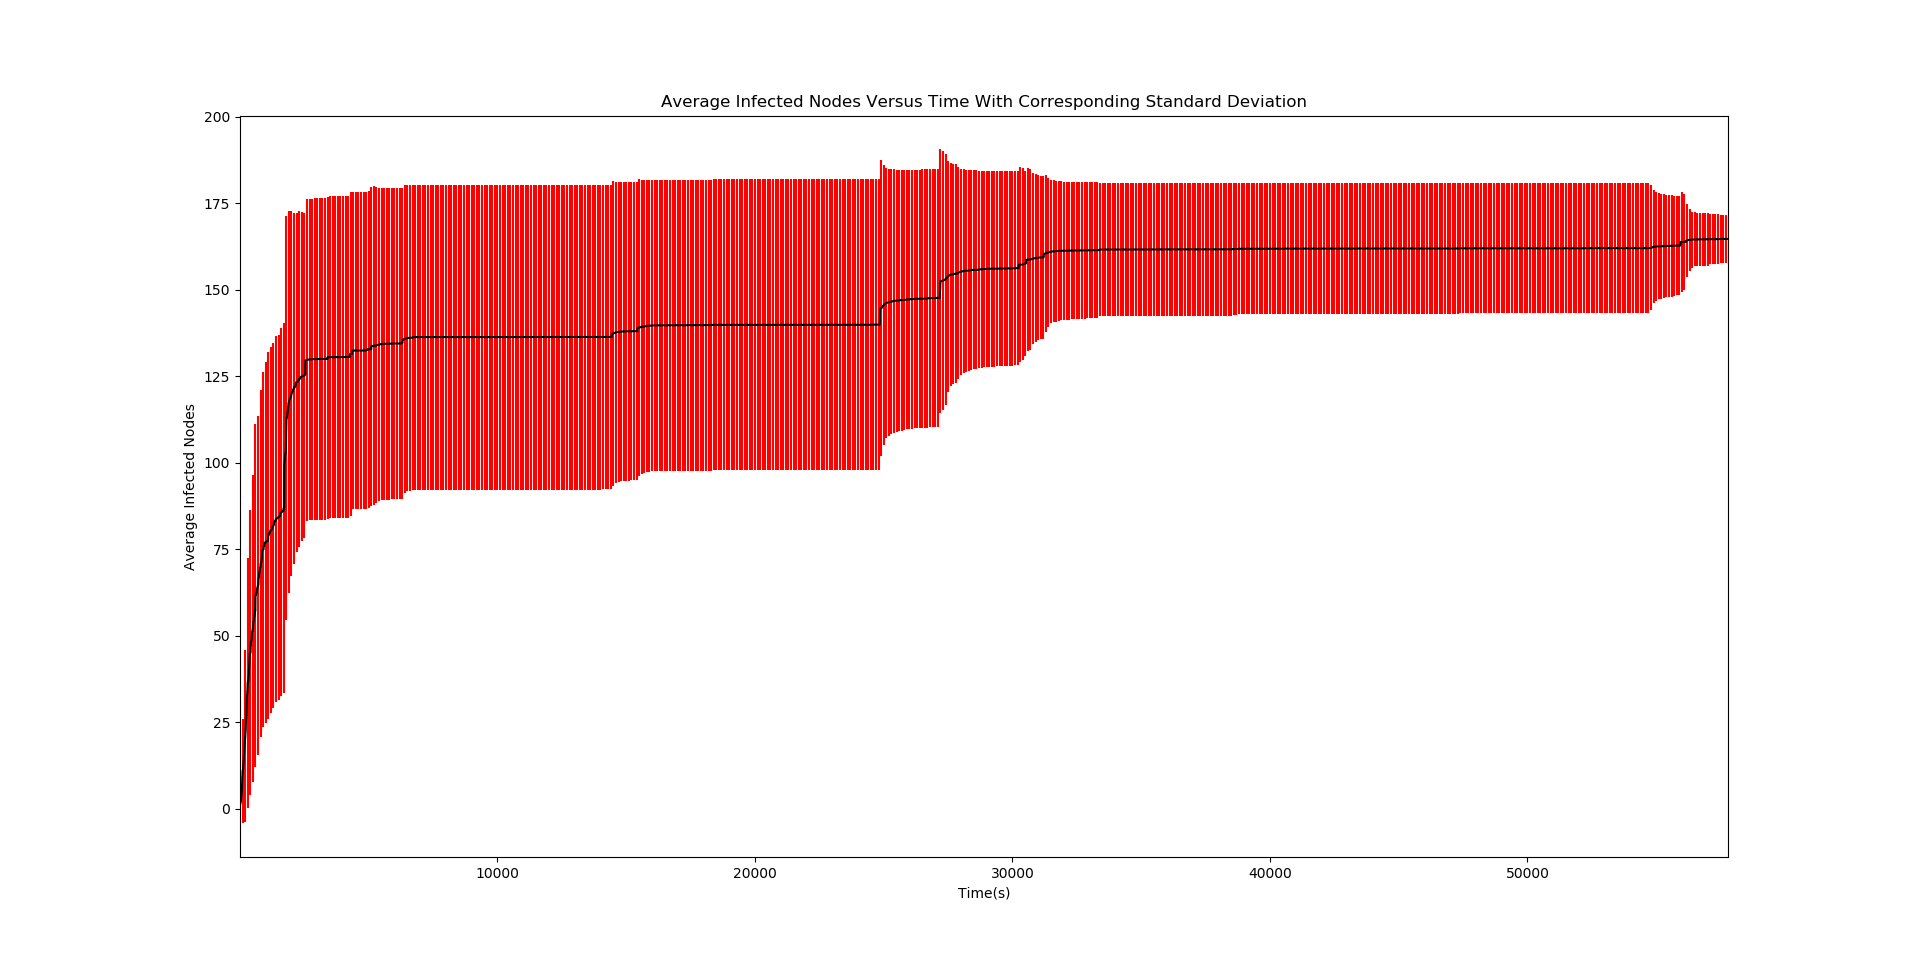
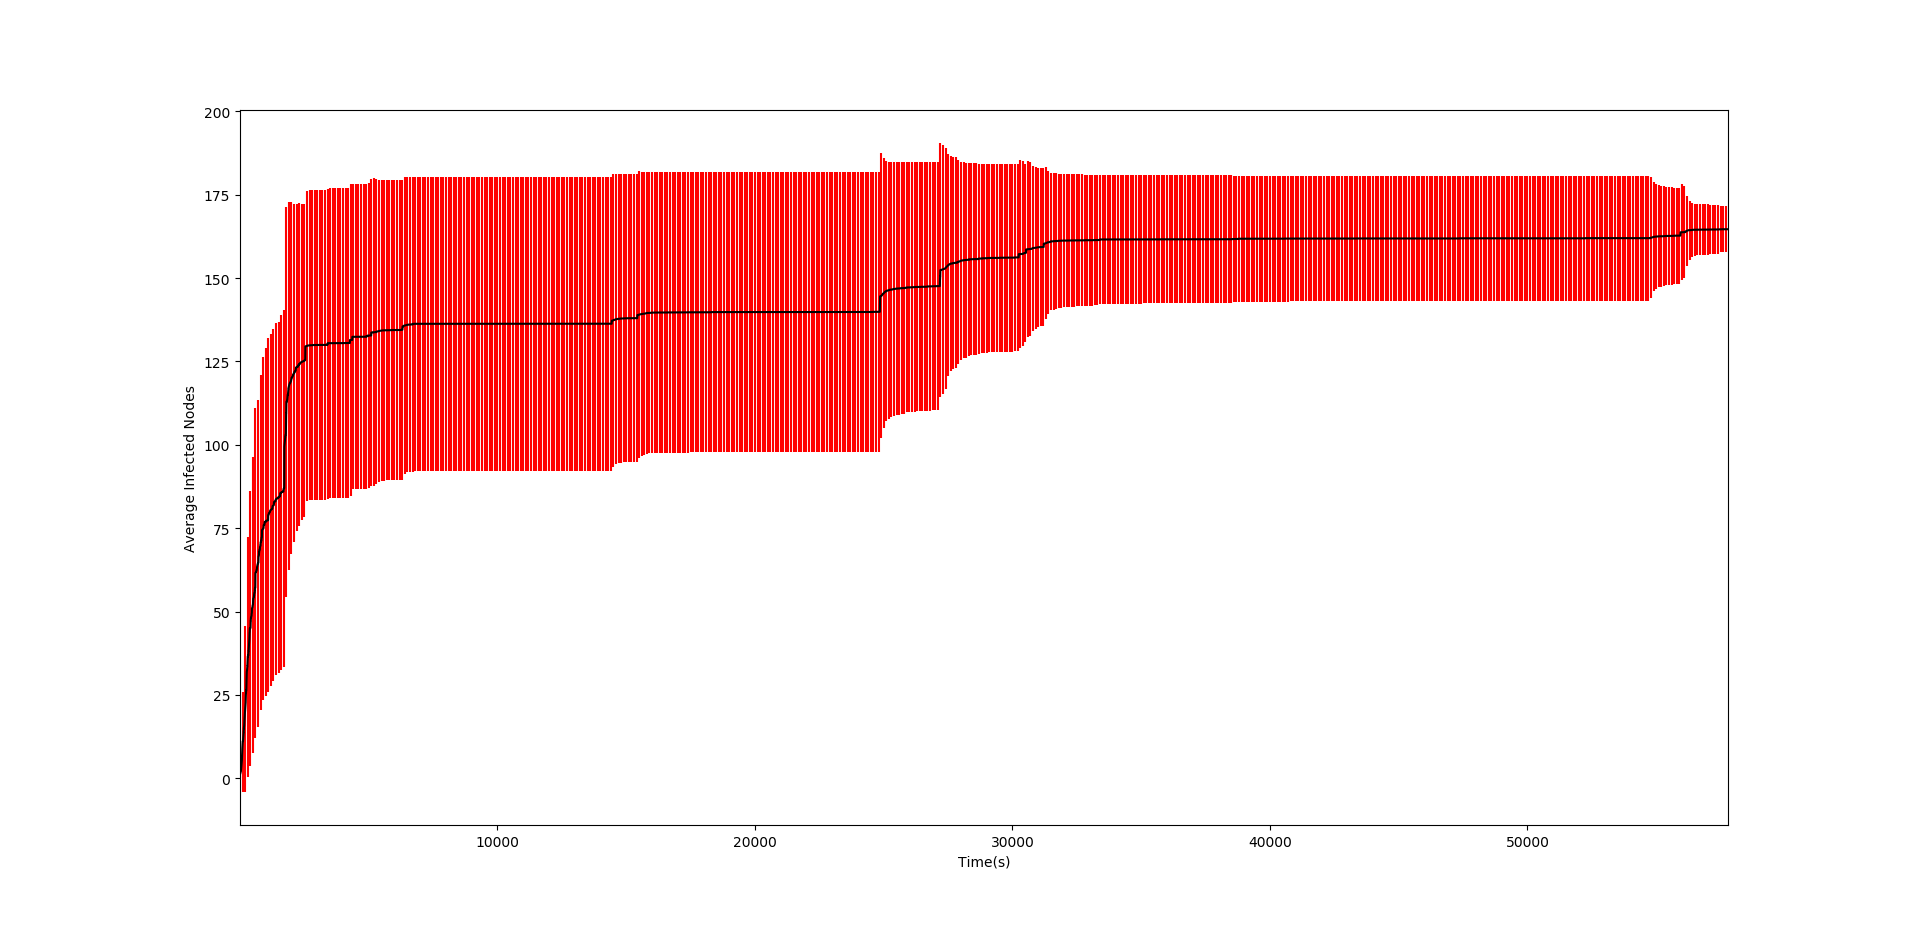
update figures without titles

diff --git a/BigAss/BigAss1C_G2.py b/BigAss/BigAss1C_G2.py
@@ -11,13 +11,11 @@ import igraph as igraph
 import timeit
 import matplotlib.pyplot as plt
 
-data = pd.read_excel (r'..\manufacturing_emails_temporal_network.xlsx')
-data = data.drop_duplicates()
+data = pd.read_excel (r'C:\Users\rixtb\Documents\Master\Data analysis\Datasets\manufacturing_emails_temporal_network.xlsx')
 """Create G2 by randomly shuffling the rows of the data set and resetting the indices"""
 data['timestamp'] = data['timestamp'].sample(frac=1,random_state = 10).reset_index(drop=True)
 data = data.sort_values(by='timestamp', axis =0 )
 data = data.reset_index(drop=True)
-
 #data = pd.read_excel (r'C:\Users\rixtb\Documents\Master\Data analysis\Datasets\oefenset.xlsx')
 
 #%% A
@@ -101,7 +99,7 @@ t=np.linspace(1,tmax,len(ExpVal))
 plt.axes(xlim=(1,tmax))
 plt.xlabel('Time(s)')
 plt.ylabel('Average Infected Nodes')
-plt.title('Average Infected Nodes Versus Time With Corresponding Standard Deviation (G2)')
+#plt.title('Average Infected Nodes Versus Time With Corresponding Standard Deviation (G2)')
 plt.errorbar(t,ExpVal,yerr = StandardDev, errorevery = 100, ecolor = 'r', color = 'k')
 #%% 10
 R = np.ones(Nnodes)*float('nan')
@@ -164,6 +162,8 @@ plt.plot(f,rclose_f)
 """MISSING SECOND METHOD"""
 #%% Time node is reached
 plt.close("all")
+dataevents = data.drop_duplicates()
+G = data.drop(['timestamp'],axis=1)
 events = G.sort_values(by=['node1', 'node2'])
 
 col1 = events['node1']
@@ -215,6 +215,8 @@ f = np.linspace(0.05,0.5,10)
 rd2_f = np.zeros(10)
 rc2_f = np.zeros(10)
 rr_f = np.zeros(10)
+rclose2_f = np.zeros(10)
+revents2_f = np.zeros(10)
 
 
 for i in range(10):
@@ -223,9 +225,14 @@ for i in range(10):
     R_f = R_node[0:size_R_accent_f]
     D_f = D_node[0:size_R_accent_f]
     C_f = C_node[0:size_R_accent_f]
+    events_f = events_node[0:size_R_f]
+    Close_f = closeness_node[0:size_R_accent_f]
     rd2_f[i] = len(set(R_accent_f).intersection(D_f))/size_R_accent_f
     rc2_f[i] = len(set(R_accent_f).intersection(C_f))/size_R_accent_f
+    rclose2_f[i] = len(set(R_accent_f).intersection(Close_f))/size_R_accent_f
     rr_f[i] = len(set(R_accent_f).intersection(R_f))/size_R_accent_f
+    revents2_f[i] = len(set(R_f).intersection(events_f))/size_R_f
+    
 plt.figure()
 plt.axes(ylim=(0,1))
 plt.xlabel('Fraction of top most influential nodes')
@@ -252,7 +259,30 @@ plt.plot(f,rr_f)
 #plt.figure()
 #plt.plot(1/R)
 
+#%%
+plt.close("all")
+plt.figure()
+plt.axes(ylim=(0,1))
+plt.xlabel('Fraction of top most influential nodes')
+plt.ylabel('Recognition rate')
+#plt.title('Metric comparison to the R vector (G2)')
+plt.plot(f,rd_f)
+plt.plot(f,rc_f)
+plt.plot(f,rclose_f)
+plt.plot(f,revents_f)
+plt.legend(('Degree', 'Clustering coefficient','Closeness', 'Number of events'))
 
+plt.figure()
+plt.axes(ylim=(0,1))
+plt.xlabel('Fraction of top most influential nodes')
+plt.ylabel('Recognition rate')
+#plt.title("Metric comparison to the R' vector (G2)")
+plt.plot(f,rd2_f)
+plt.plot(f,rc2_f)
+plt.plot(f,rclose2_f)
+plt.plot(f,rr_f)
+plt.plot(f,revents2_f)
+plt.legend(('Degree', 'Clustering coefficient','Closeness','R vector', 'Number of events'))
 
 
 

diff --git a/BigAss/BigAss1C_G3.py b/BigAss/BigAss1C_G3.py
@@ -12,9 +12,9 @@ import timeit
 import matplotlib.pyplot as plt
 
 #data = pd.read_excel (r'C:\Users\Thierry\Documents\Studie\TU Delft Applied Physics\CS4195 Modeling and Data Analysis in Complex Networks\Assignment1\manufacturing_emails_temporal_network.xlsx')
-data = pd.read_excel (r'../manufacturing_emails_temporal_network.xlsx')
+#data = pd.read_excel (r'../manufacturing_emails_temporal_network.xlsx')
 #data = pd.read_excel (r'C:\Users\rixtb\Documents\Master\Data analysis\Datasets\oefenset.xlsx')
-data = data.drop_duplicates()
+data = pd.read_excel (r'C:\Users\rixtb\Documents\Master\Data analysis\Datasets\manufacturing_emails_temporal_network.xlsx')
 
 #%% A
 Nnodes = np.max([data['node1'].max(), data['node2'].max()])
@@ -92,13 +92,13 @@ plt.close("all")
 
 ExpVal = np.sum(Infections, axis = 1)/Nnodes
 StandardDev = np.std(Infections, axis = 1)
-
 t=np.linspace(1,tmax,len(ExpVal))
 plt.axes(xlim=(1,tmax))
 plt.xlabel('Time(s)')
 plt.ylabel('Average Infected Nodes')
-plt.title('Average Infected Nodes Versus Time With Corresponding Standard Deviation (G3)')
+#plt.title('Average Infected Nodes Versus Time With Corresponding Standard Deviation (G3)')
 plt.errorbar(t,ExpVal,yerr = StandardDev, errorevery = 100, ecolor = 'r', color = 'k')
+
 #%% 10
 R = np.ones(Nnodes)*float('nan')
 
@@ -192,7 +192,10 @@ for i in range(10):
     C_f = C_node[0:size_R_accent_f]
     rd2_f[i] = len(set(R_accent_f).intersection(D_f))/size_R_accent_f
     rc2_f[i] = len(set(R_accent_f).intersection(C_f))/size_R_accent_f
+    rclose2_f[i] = len(set(R_accent_f).intersection(Close_f))/size_R_accent_f
     rr_f[i] = len(set(R_accent_f).intersection(R_f))/size_R_accent_f
+    revents2_f[i] = len(set(R_f).intersection(events_f))/size_R_f
+
 plt.figure()
 plt.axes(ylim=(0,1))
 plt.xlabel('Fraction of top most influential nodes')
@@ -214,10 +217,46 @@ plt.ylabel('Recognition rate')
 plt.title('Recognition rate using the 80 percent ranking R of the nodes (G3)')
 plt.plot(f,rr_f)
 
+plt.figure()
+plt.axes(ylim=(0,1))
+plt.xlabel('Fraction of top most influential nodes')
+plt.ylabel('Recognition rate')
+plt.title('Recognition rate using the clustering coefficient of the nodes (G2)')
+plt.plot(f,rclose2_f)
+
 #plt.figure()
 #plt.plot(1/Average_Time_Infection)
 #plt.figure()
 #plt.plot(1/R)
+
+#%%
+plt.close("all")
+plt.figure()
+plt.axes(ylim=(0,1))
+plt.xlabel('Fraction of top most influential nodes')
+plt.ylabel('Recognition rate')
+#plt.title('Metric comparison to the R vector (G2)')
+plt.plot(f,rd_f)
+plt.plot(f,rc_f)
+plt.plot(f,rclose_f)
+plt.plot(f,revents_f)
+plt.legend(('Degree', 'Clustering coefficient','Closeness', 'Number of events'))
+
+plt.figure()
+plt.axes(ylim=(0,1))
+plt.xlabel('Fraction of top most influential nodes')
+plt.ylabel('Recognition rate')
+#plt.title("Metric comparison to the R' vector (G2)")
+plt.plot(f,rd2_f)
+plt.plot(f,rc2_f)
+plt.plot(f,rclose2_f)
+plt.plot(f,rr_f)
+plt.plot(f,revents2_f)
+plt.legend(('Degree', 'Clustering coefficient','Closeness','R vector', 'Number of events'))
+
+
+
+
 
 
 

diff --git a/BigAss/BigAss1B.py b/BigAss/BigAss1B.py
@@ -12,9 +12,9 @@ import timeit
 import matplotlib.pyplot as plt
 
 #data = pd.read_excel (r'C:\Users\Thierry\Documents\Studie\TU Delft Applied Physics\CS4195 Modeling and Data Analysis in Complex Networks\Assignment1\manufacturing_emails_temporal_network.xlsx')
-data = pd.read_excel (r'..\manufacturing_emails_temporal_network.xlsx')
+#data = pd.read_excel (r'..\manufacturing_emails_temporal_network.xlsx')
 #data = pd.read_excel (r'C:\Users\rixtb\Documents\Master\Data analysis\Datasets\oefenset.xlsx')
-
+data = pd.read_excel (r'C:\Users\rixtb\Documents\Master\Data analysis\Datasets\manufacturing_emails_temporal_network.xlsx')
 
 #%% A
 Nnodes = np.max([data['node1'].max(), data['node2'].max()])
@@ -89,7 +89,7 @@ t=np.linspace(1,tmax,len(ExpVal))
 plt.axes(xlim=(1,tmax))
 plt.xlabel('Time(s)')
 plt.ylabel('Average Infected Nodes')
-plt.title('Average Infected Nodes Versus Time With Corresponding Standard Deviation')
+#plt.title('Average Infected Nodes Versus Time With Corresponding Standard Deviation')
 plt.errorbar(t,ExpVal,yerr = StandardDev, errorevery = 100, ecolor = 'r', color = 'k')
 #%% 10
 R = np.ones(Nnodes)*float('nan')
